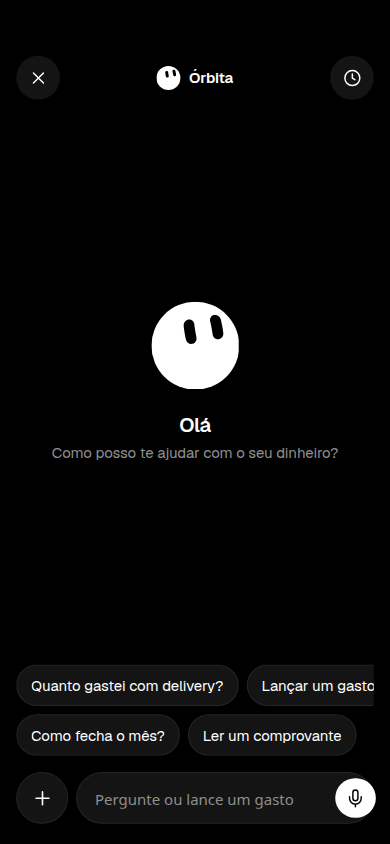
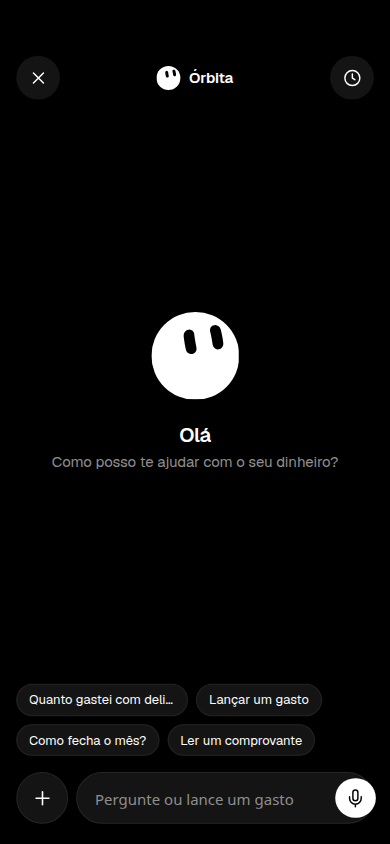
feat(mobile): o + do chat pede comprovante ou foto
A folha sobe com dois botões do tamanho do anexo. No navegador abre o seletor; a leitura do arquivo ainda não existe. As sugestões ficam menores e o texto que não cabe termina em reticências.

diff --git a/apps/mobile/src/features/chat/ChatView.tsx b/apps/mobile/src/features/chat/ChatView.tsx
@@ -3,7 +3,7 @@ import { chart, colors, radius, spacing } from "@orbita/tokens";
 import { useState } from "react";
 import { Pressable, ScrollView, TextInput, View } from "react-native";
 import { percentOf } from "../../lib/format.ts";
-import { Icon, IconButton, OrbitaAvatar, Screen, Text } from "../../ui/index.ts";
+import { Icon, IconButton, type IconName, OrbitaAvatar, Screen, Sheet, Text } from "../../ui/index.ts";
 import type { MonthRow } from "./reply.ts";
 
 const SUGGESTIONS = [
@@ -208,16 +208,18 @@ export function ChatView({
 	messages,
 	onClose,
 	onReset,
-	onNew,
 	onSend,
+	onAttach,
 }: {
 	messages: readonly ChatBubble[];
 	onClose: () => void;
 	onReset: () => void;
-	onNew: () => void;
 	onSend: (text: string) => void;
+	/** Comprovante ou foto, depois que a folha fecha. */
+	onAttach?: (kind: "receipt" | "photo") => void;
 }) {
 	const [draft, setDraft] = useState("");
+	const [attachOpen, setAttachOpen] = useState(false);
 	const empty = messages.length === 0;
 	const send = () => {
 		const text = draft.trim();
@@ -263,10 +265,62 @@ export function ChatView({
 						))}
 					</ScrollView>
 				)}
-				{empty ? <Suggestions onSend={onSend} /> : null}
-				<Composer draft={draft} onChange={setDraft} onSend={send} onNew={onNew} />
+				{empty ? <Suggestions onSend={onSend} onAttach={() => setAttachOpen(true)} /> : null}
+				<Composer draft={draft} onChange={setDraft} onSend={send} onAttach={() => setAttachOpen(true)} />
 			</View>
+			<AttachSheet
+				visible={attachOpen}
+				onClose={() => setAttachOpen(false)}
+				onChoose={(kind) => {
+					setAttachOpen(false);
+					onAttach?.(kind);
+				}}
+			/>
 		</Screen>
+	);
+}
+
+function AttachChoice({ icon, label, onPress }: { icon: IconName; label: string; onPress: () => void }) {
+	return (
+		<Pressable
+			accessibilityRole="button"
+			accessibilityLabel={label}
+			onPress={onPress}
+			style={{
+				flex: 1,
+				height: 88,
+				borderRadius: radius.group,
+				backgroundColor: colors.surface2,
+				alignItems: "center",
+				justifyContent: "center",
+				gap: 6,
+			}}
+		>
+			<Icon name={icon} size={24} />
+			<Text variant="caption">{label}</Text>
+		</Pressable>
+	);
+}
+
+/** Folha de baixo. Os dois botões pedem o arquivo; o tamanho segue o anexo do Grok. */
+function AttachSheet({
+	visible,
+	onClose,
+	onChoose,
+}: {
+	visible: boolean;
+	onClose: () => void;
+	onChoose: (kind: "receipt" | "photo") => void;
+}) {
+	return (
+		<Sheet visible={visible} title="Comprovante ou foto" onClose={onClose}>
+			<View
+				style={{ flexDirection: "row", gap: spacing.md, paddingTop: spacing.lg, paddingBottom: spacing.sm }}
+			>
+				<AttachChoice icon="escanear" label="Comprovante" onPress={() => onChoose("receipt")} />
+				<AttachChoice icon="foto" label="Foto" onPress={() => onChoose("photo")} />
+			</View>
+		</Sheet>
 	);
 }
 
@@ -277,31 +331,37 @@ function Suggestion({ label, onSend }: { label: string; onSend: (text: string) =
 			accessibilityLabel={label}
 			onPress={() => onSend(label)}
 			style={{
-				flexShrink: 0,
+				flexShrink: 1,
+				minWidth: 0,
+				maxWidth: "48%",
 				backgroundColor: colors.surface,
 				borderWidth: 1,
 				borderColor: colors.border,
 				borderRadius: radius.pill,
-				paddingHorizontal: 14,
-				paddingVertical: 10,
+				paddingHorizontal: 12,
+				paddingVertical: 6,
 			}}
 		>
-			<Text variant="body" numberOfLines={1}>
+			<Text variant="caption" numberOfLines={1} ellipsizeMode="tail">
 				{label}
 			</Text>
 		</Pressable>
 	);
 }
 
-/** Duas linhas, sem quebrar: a segunda sugestão da primeira linha encosta na borda, como no desenho. */
-function Suggestions({ onSend }: { onSend: (text: string) => void }) {
+/** Duas linhas menores. O que não cabe na pílula termina em reticências. */
+function Suggestions({ onSend, onAttach }: { onSend: (text: string) => void; onAttach: () => void }) {
 	const rows = [SUGGESTIONS.slice(0, 2), SUGGESTIONS.slice(2)];
 	return (
-		<View style={{ alignSelf: "stretch", gap: spacing.sm, overflow: "hidden" }}>
+		<View style={{ alignSelf: "stretch", gap: spacing.sm }}>
 			{rows.map((row) => (
 				<View key={row[0]} style={{ flexDirection: "row", gap: spacing.sm }}>
 					{row.map((label) => (
-						<Suggestion key={label} label={label} onSend={onSend} />
+						<Suggestion
+							key={label}
+							label={label}
+							onSend={label === "Ler um comprovante" ? () => onAttach() : onSend}
+						/>
 					))}
 				</View>
 			))}
@@ -313,17 +373,17 @@ function Composer({
 	draft,
 	onChange,
 	onSend,
-	onNew,
+	onAttach,
 }: {
 	draft: string;
 	onChange: (text: string) => void;
 	onSend: () => void;
-	onNew: () => void;
+	onAttach: () => void;
 }) {
 	const ready = draft.trim().length > 0;
 	return (
 		<View style={{ flexDirection: "row", alignItems: "center", gap: spacing.sm }}>
-			<IconButton icon="mais" label="Novo lançamento" size={52} iconSize={22} bordered onPress={onNew} />
+			<IconButton icon="mais" label="Anexar" size={52} iconSize={22} bordered onPress={onAttach} />
 			<View
 				style={{
 					flex: 1,

diff --git a/apps/mobile/src/features/chat/ChatScreen.tsx b/apps/mobile/src/features/chat/ChatScreen.tsx
@@ -9,6 +9,7 @@ import { useSession } from "../../lib/session.tsx";
 import { useAccounts, useCards, useCategories, useSummary } from "../summary/queries.ts";
 import { isAffectedByNewTransaction } from "../transactions/new-transaction-model.ts";
 import { type ChatBubble, ChatView } from "./ChatView.tsx";
+import { pickLocalFile } from "./pick-file.ts";
 import { answerChat, type ChatFacts, type ChatReply, type ChatSource } from "./reply.ts";
 
 let nextId = 0;
@@ -153,13 +154,31 @@ export function ChatScreen() {
 		setMessages((current) => [...current, fromReply(reply)]);
 	};
 
+	const attach = async (kind: "receipt" | "photo") => {
+		if (typeof document === "undefined") {
+			setMessages((current) => [
+				...current,
+				textBubble("Ainda não dá para escolher o arquivo neste aparelho."),
+			]);
+			return;
+		}
+		const picked = await pickLocalFile(kind);
+		if (!picked) return;
+		const label = kind === "receipt" ? "Comprovante" : "Foto";
+		setMessages((current) => [
+			...current,
+			{ id: nextMessageId(), kind: "user", text: label },
+			textBubble("Recebi. Ainda não leio comprovante nem foto: o valor dá para lançar por escrito."),
+		]);
+	};
+
 	return (
 		<ChatView
 			messages={messages}
 			onClose={() => router.back()}
 			onReset={() => setMessages([])}
-			onNew={() => router.push("/novo")}
 			onSend={send}
+			onAttach={(kind) => void attach(kind)}
 		/>
 	);
 }

diff --git a/apps/mobile/src/features/chat/pick-file.ts b/apps/mobile/src/features/chat/pick-file.ts
@@ -1,0 +1,28 @@
+const ACCEPT = {
+	receipt: "image/*,.pdf",
+	photo: "image/*",
+} as const;
+
+/**
+ * Abre o seletor de arquivo do navegador. No aplicativo nativo ainda não há seletor:
+ * devolve `null` e quem chamou explica isso.
+ */
+export function pickLocalFile(kind: keyof typeof ACCEPT): Promise<boolean> {
+	if (typeof document === "undefined") return Promise.resolve(false);
+	return new Promise((resolve) => {
+		const input = document.createElement("input");
+		input.type = "file";
+		input.accept = ACCEPT[kind];
+		let settled = false;
+		const finish = (picked: boolean) => {
+			if (settled) return;
+			settled = true;
+			input.remove();
+			resolve(picked);
+		};
+		input.addEventListener("change", () => finish((input.files?.length ?? 0) > 0));
+		input.addEventListener("cancel", () => finish(false));
+		document.body.appendChild(input);
+		input.click();
+	});
+}

diff --git a/apps/mobile/src/features/chat/ChatPreview.tsx b/apps/mobile/src/features/chat/ChatPreview.tsx
@@ -60,9 +60,9 @@ function talk(): ChatBubble[] {
 const noop = () => {};
 
 export function ChatEmptyPreview() {
-	return <ChatView messages={[]} onClose={noop} onReset={noop} onNew={noop} onSend={noop} />;
+	return <ChatView messages={[]} onClose={noop} onReset={noop} onSend={noop} />;
 }
 
 export function ChatTalkPreview() {
-	return <ChatView messages={talk()} onClose={noop} onReset={noop} onNew={noop} onSend={noop} />;
+	return <ChatView messages={talk()} onClose={noop} onReset={noop} onSend={noop} />;
 }

diff --git a/apps/mobile/src/ui/icons.tsx b/apps/mobile/src/ui/icons.tsx
@@ -31,6 +31,14 @@ const bodies = {
 			<Path d="M7 12h10" />
 		</>
 	),
+	/** Foto do gasto, no mesmo traço do conjunto. Não está na página de ícones do Figma. */
+	foto: (
+		<>
+			<Rect x="3" y="3" width="18" height="18" rx="2" />
+			<Circle cx="9" cy="9" r="2" />
+			<Path d="m21 15-5-5L6 21" />
+		</>
+	),
 	revisar: (
 		<>
 			<Path d="M22 12h-6l-2 3h-4l-2-3H2" />
